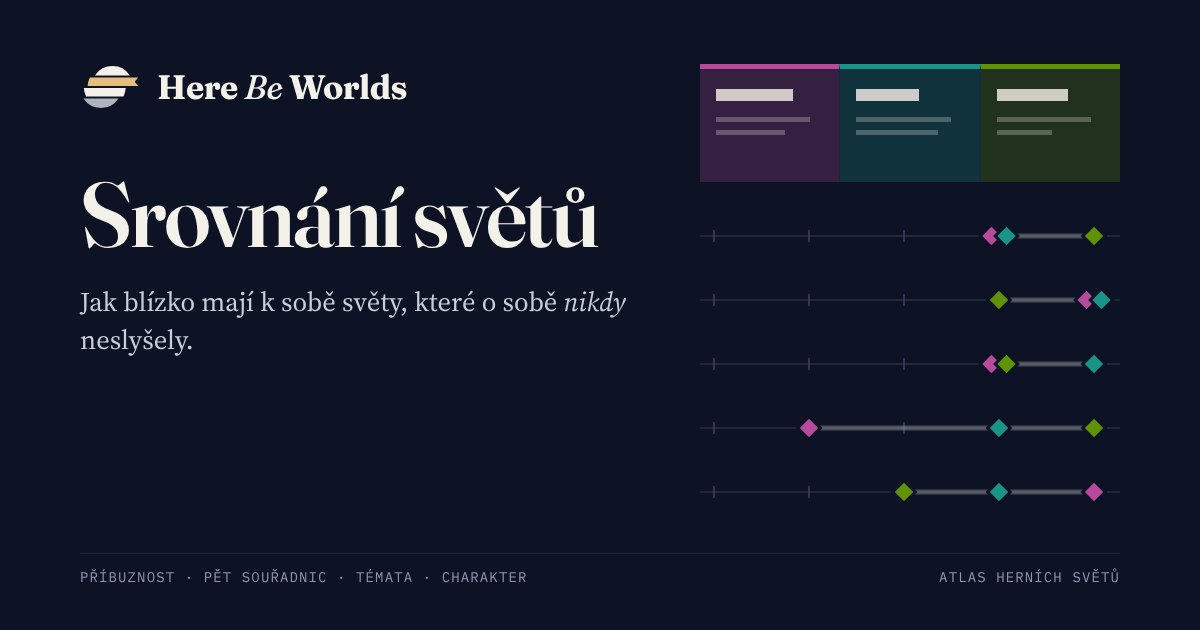
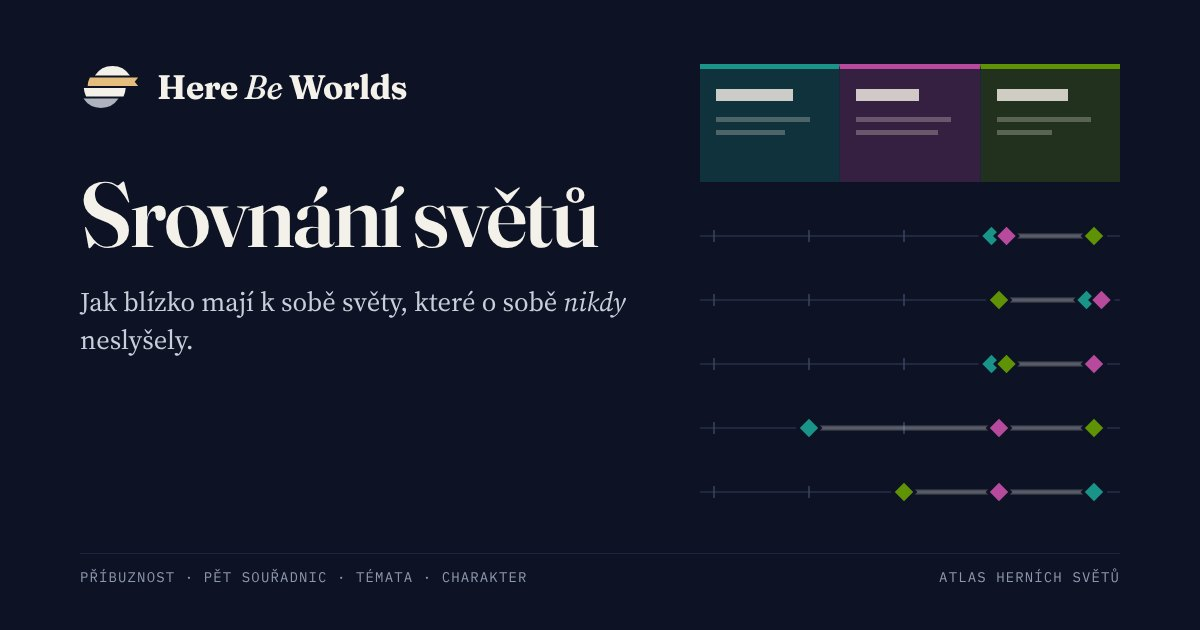
Příbuznost jen z indexu (zrušeno zvedání ručních dvojic), bez poznámky Z atlasu ve srovnání, purpurová mezi zelenými
Claude-Session: https://claude.ai/code/session_01B7obWPJG5ydjAhQo1XjBpq

diff --git a/src/lib/i18n.ts b/src/lib/i18n.ts
@@ -289,7 +289,7 @@ export const ui: Record<Locale, UiTree> = {
       strengthFaint: 'slabá shoda',
       strengthNone: 'bez shody',
       curatedLabel: 'Z Atlasu:',
-      methodLines: 'Příbuznost skládáme ze čtyř pilířů: archetyp a profil archetypu, pět souřadnic profilu světa, charakter světa (nálada, původ moci, společnost, historická hloubka, prostorový dosah, perspektiva hráče) a společná témata.|Všechny dvojice světů v atlasu seřadíme od nejbližší po nejvzdálenější a rozdělíme do pěti stupňů: Sourozenci, Blízcí příbuzní, Spříznění, Vzdálení příbuzní a Cizí.|Dvojice, které jsme v Atlasu spojili ručně, jsou vždy aspoň Blízcí příbuzní.',
+      methodLines: 'Příbuznost skládáme ze čtyř pilířů: archetyp a profil archetypu, pět souřadnic profilu světa, charakter světa (nálada, původ moci, společnost, historická hloubka, prostorový dosah, perspektiva hráče) a společná témata.|Všechny dvojice světů v atlasu seřadíme od nejbližší po nejvzdálenější a rozdělíme do pěti stupňů: Sourozenci, Blízcí příbuzní, Spříznění, Vzdálení příbuzní a Cizí.',
       noMatch: 'Tomuto hledání neodpovídá žádný svět.',
       versus: '×',
       start: 'Kde začít',
@@ -302,7 +302,6 @@ export const ui: Record<Locale, UiTree> = {
       shuffle: 'Jiné náměty',
       trailsTitle: 'Společná putování',
       trailsAll: 'Všemi',
-      trailsSome: 'Jen',
       essayMin: 'Esej · {m} min',
       pairsHint: 'Vyber dvojici',
     },
@@ -768,7 +767,7 @@ Berte prosím tento atlas jako skromnou poctu všem scenáristům, designérům 
       strengthFaint: 'faint match',
       strengthNone: 'no match',
       curatedLabel: 'From the Atlas:',
-      methodLines: 'Kinship rests on four pillars: archetype and archetype profile, the five coordinates of the world profile, world character (mood, source of power, society, historical depth, spatial scope, player perspective), and shared themes.|We rank every pair of worlds in the atlas from closest to farthest and split them into five grades: Siblings, Close kin, Kindred, Distant kin, and Strangers.|Pairs we linked by hand in the Atlas are always at least Close kin.',
+      methodLines: 'Kinship rests on four pillars: archetype and archetype profile, the five coordinates of the world profile, world character (mood, source of power, society, historical depth, spatial scope, player perspective), and shared themes.|We rank every pair of worlds in the atlas from closest to farthest and split them into five grades: Siblings, Close kin, Kindred, Distant kin, and Strangers.',
       noMatch: 'No world matches this search.',
       versus: '×',
       start: 'Where to start',
@@ -781,7 +780,6 @@ Berte prosím tento atlas jako skromnou poctu všem scenáristům, designérům 
       shuffle: 'Other ideas',
       trailsTitle: 'Shared journeys',
       trailsAll: 'All',
-      trailsSome: 'Only',
       essayMin: 'Essay · {m} min',
       pairsHint: 'Pick a pair',
     },

diff --git a/src/lib/compare.ts b/src/lib/compare.ts
@@ -4,14 +4,14 @@ import overridesData from '../../data/meta/kinship-overrides.json';
 
 export const MAX_COMPARE = 3;
 
-/* Barvy srovnání (2026-11-21): purpurová, mořská zeleň a trávová zeleň. Leží v mezerách mezi
+/* Barvy srovnání (2026-11-21): mořská zeleň, purpurová a trávová zeleň (zelené nestojí vedle sebe). Leží v mezerách mezi
  * barvami archetypů i akcentem (ΔE2000 ≥ 15 vůči světlým i tmavým barvám archetypů, mezi sebou ≥ 27)
  * a mají kontrast ≥ 3,3 na papíře i na noci, takže stačí jedna sada pro oba motivy.
  * Podbarvení (wash) míchá compare.css z barvy a pozadí (color-mix), tady je jen pro úplnost. */
-export const SLOT_COLORS = ['#B74A9D', '#1A9389', '#5F9205'] as const;
+export const SLOT_COLORS = ['#1A9389', '#B74A9D', '#5F9205'] as const;
 export const SLOT_WASH = [
-  'rgba(183, 74, 157, 0.16)',
   'rgba(26, 147, 137, 0.16)',
+  'rgba(183, 74, 157, 0.16)',
   'rgba(95, 146, 5, 0.16)',
 ] as const;
 
@@ -215,12 +215,10 @@ export function affinityPercent(a: World, b: World): number {
  * Všechny dvojice publikovaných světů seřadíme podle indexu a rozdělíme podle podílu:
  * nejbližší 3 % = Sourozenci, dalších 9 % = Blízcí příbuzní, dalších 23 % = Spříznění,
  * dalších 30 % = Vzdálení příbuzní, zbytek = Cizí. Při úpravě výpočtu se stupně jen přeskupí.
- * Kurátorské vazby z atlasu (relatedWorlds) mají vždy aspoň stupeň Blízcí příbuzní.
  * Ruční výjimky: data/meta/kinship-overrides.json.
  */
 export type KinshipLevel = 1 | 2 | 3 | 4 | 5;
 export const KINSHIP_SHARES = [0.03, 0.12, 0.35, 0.65] as const;
-export const CURATED_FLOOR: KinshipLevel = 4;
 
 type Override = { a: string; b: string; level: number };
 const OVERRIDES = new Map<string, KinshipLevel>(
@@ -268,7 +266,7 @@ export function kinshipLevel(a: World, b: World, all: World[]): KinshipLevel {
   const manual = OVERRIDES.get(pairId(a.id, b.id));
   if (manual) return manual;
   const computed = levelFromPercent(affinityPercent(a, b), kinshipCutoffs(all));
-  return isCuratedPair(a, b) ? (Math.max(computed, CURATED_FLOOR) as KinshipLevel) : computed;
+  return computed;
 }
 
 /** Nejpříbuznější světy (jediný index na webu: srovnání, karta i mapa), řazeno podle stupně a indexu. */

diff --git a/src/components/compare/ComparePage.tsx b/src/components/compare/ComparePage.tsx
@@ -5,7 +5,6 @@ import { useLocale } from '../../lib/locale-store';
 import { withBase } from '../../lib/base-url';
 import {
   MAX_COMPARE,
-  curatedNote,
   curatedPairs,
   discoveryPairs,
   kinshipCutoffs,
@@ -300,8 +299,6 @@ export default function ComparePage({ worlds, chapters, themeLabels, axes, base,
       ? pairLevel(selected[0], selected[1])
       : levelFromPercent(kinshipPercent(selected), cutoffs)
     : null;
-  const notePair = activePair ? [selected[activePair.left], selected[activePair.right]] : null;
-  const verdictNote = notePair ? curatedNote(notePair[0], notePair[1]) : undefined;
 
   const factRows: FactRow[] = ready
     ? [
@@ -535,11 +532,6 @@ export default function ComparePage({ worlds, chapters, themeLabels, axes, base,
               </ul>
               </>
             )}
-            {verdictNote ? (
-              <p className="cmp-note">
-                <span className="cmp-note__label">{uiT('compare.curatedLabel', locale)}</span> {t(verdictNote, locale)}
-              </p>
-            ) : null}
             {activePair ? <Pillars score={activePair.breakdown} locale={locale} /> : null}
           </Section>
 
@@ -593,7 +585,6 @@ export default function ComparePage({ worlds, chapters, themeLabels, axes, base,
                     <p className="cmp-trails__desc">{uiT(trail.descKey, locale)}</p>
                     <p className="cmp-trails__meta">
                       <span className="cmp-trails__who">
-                        {inside.length < filled.length ? `${uiT('compare.trailsSome', locale)} ` : ''}
                         {inside.map((item) => (
                           <span key={item.world.id} className="cmp-trails__world">
                             <Mark hue={slotHue(item.index)} />

diff --git a/src/lib/compare.test.ts b/src/lib/compare.test.ts
@@ -172,8 +172,8 @@ describe('compare kinship', () => {
   });
 
   it('keeps slot colors in gold / teal / amethyst order', () => {
-    expect(slotHue(0)).toBe('#B74A9D');
-    expect(slotHue(1)).toBe('#1A9389');
+    expect(slotHue(0)).toBe('#1A9389');
+    expect(slotHue(1)).toBe('#B74A9D');
     expect(slotHue(2)).toBe('#5F9205');
   });
 });
@@ -255,11 +255,12 @@ describe('kinship levels', () => {
     expect(levelFromPercent(10, cut)).toBe(1);
   });
 
-  it('lifts curated pairs to at least close kin', () => {
+  it('does not lift curated pairs: the grade comes from the index alone', () => {
     const a = { ...minimal('a', [], 1, 1), relatedWorlds: [{ id: 'b', title: { en: 'b' }, note: { en: 'n' } }] } as World;
+    const plain = minimal('a', [], 1, 1);
     const b = minimal('b', ['x'], 5, 5);
     const fillers = ['c', 'd', 'e', 'f', 'g'].map((id) => minimal(id, ['x'], 5, 5));
-    expect(kinshipLevel(a, b, [a, b, ...fillers])).toBeGreaterThanOrEqual(4);
+    expect(kinshipLevel(a, b, [a, b, ...fillers])).toBe(kinshipLevel(plain, b, [plain, b, ...fillers]));
   });
 
   it('describes pillar strength in words', () => {

diff --git a/CLAUDE.md b/CLAUDE.md
@@ -69,7 +69,7 @@ Kroniky a eseje **nejsou** v `data/`.
 |---|---|---|
 | `/` | `src/pages/index.astro` | `HomeIntro` — noční pás s oblohou 43 hvězd (7 souhvězdí = archetypy; nahodilý tvar bez předepsané figury (rozhodnutí majitele 2026-11-21: žádné konkrétní tvary): hvězdy leží v ploše souhvězdí na pevných pseudonáhodných místech (`scatter`, semínko podle archetypu, okraj 40 jednotek kvůli jménům) a spojuje je jediná klikatá linka od hvězdy k sousední (`windingPath`: nejbližší soused od hvězdy nejvíc vlevo + 2-opt bez křížení), takže každá hvězda má nejvýš dva sousedy a žádná nepůsobí jako střed (dřívější strom s „rodičovskými“ hvězdami majitel zamítl); k-tý svět archetypu podle čísla dostane k-té místo (místa se vybírají postupně co nejdál od předchozích), takže se při postupném odkrývání hvězdy nehýbou, linka se jen přeskládá; spojnice jsou SVG a platí i na telefonu; dva naposledy zmapované světy (`latestAdded`) pulzují a na počítači mají trvale jméno se štítkem „Nově zmapováno“; popsané světy se po stálých skupinkách (dvě až tři, jména se nepřekrývají, `rotationSets`) střídají každých 5 s s pomalým prolnutím, souhvězdí po sobě jako vlna; první skupinka jsou nejznámější světy `ICONIC`; rotace běží pořád, stojí jen při kurzoru na názvu souhvězdí, na kartě v pozadí, při `prefers-reduced-motion` a na úzkém/dotykovém displeji; jména jsou vždy pod hvězdou; najetí na název souhvězdí rozsvítí jména všech jeho světů a ztlumí ostatní, klik skočí na `#rejstrik-<id>`; na úzkém/dotykovém displeji obloha bez jmen a pod ní řádek archetypů do rejstříku; dole jemné měřítko, vlevo „Trasy oblohou“ (tři dnešní putování: najetí nakreslí přes oblohu přerušovanou zlatou trasu mezi hvězdami světů putování, rozsvítí jejich jména a ostatní ztlumí; trasa prvního putování dne je slabě vidět pořád; na telefonu a dotyku řádek ani trasa nejsou, spojnice souhvězdí ano) a vpravo „Nově zmapováno“). Hned pod nocí **Putování dne** v jediném tónovaném pásu (`hp-journeys`): hlavní putování s otázkou eseje (`tagline`, jen česky, v EN popis z i18n), úvodním citátem eseje a jeho zdrojem, trasou světů jako zastávek na lince (tečka v barvě archetypu; na telefonu svisle), tlačítkem „Vydat se na putování“ a dobou čtení eseje (počet světů ne, ten je vidět z trasy); vpravo pod štítkem „Další putování“ další dvě putování dne s otázkou a světy; podklady skládá `index.astro` z `trail-pages.ts` (jen schválené eseje). V úvodu tlačítka „Vydat se na putování“ (zlatý štítek) a „Otevřít atlas“ (na telefonu vedle sebe), „Náhodný svět“ jako odkaz pod nimi. Hlavička na titulní straně splývá s nocí, po posunu ji oddělí linka (`is-scrolled` v `SiteHeader`). `ReaderDesk` (jen jeden řádek s rozečtenou kronikou), **Svět dne** (archetyp · profil archetypu, pruh os) + **Hádanka dne** (`DailyMystery`), Zmapované světy (dřív Rejstřík; záložka „Archetyp · počet“ je odkaz na archetyp, `id=rejstrik-<id>`), kompas „Který svět je tvůj?“ (`WorldCompass alwaysOpen`), Tři cesty a na konci esej Anatomie herního lore v druhém tónovaném pásu. Putování dne = 3 z 22, každý den jiná trojice (`dailyTrails`); odkaz „Všech 22 putování →“ na `/putovani/`. Svět dne i hádanka se skládají samy z dat (`calendar.ts`): promíchané pořadí po cyklech (`featuredWorldIndex`), hádanka je o půl cyklu posunutá (`mysteryWorldIndex`), takže se se Světem dne nepotká; jedna špatná odpověď je ze stejného archetypu. Po odpovědi: správná zelený rámeček a ✓, zvolená špatná červený rámeček, přeškrtnutí a ✗ (`--color-right` / `--color-wrong`), všechny tři možnosti jsou odkazy. Staré odkazy `/?theme=` a `/?trail=` přesměruje do `/atlas/`. |
 | `/atlas/` | `src/pages/atlas/index.astro` | `AtlasExplorer`: pod nadpisem rovnou katalog — záložky archetypů s počty (podle ostatních filtrů), pole jen s linkou dole (hledání, Téma, Nálada), řádek Další filtry · Hledat podle vlastních souřadnic (`WorldCompass open`) · Putování + (rozbalí seznam všech putování s popisem a počtem; `?putovani=1` i staré `?stezky=1` ho otevře), řádek s počtem výsledků a Zrušit filtry; skupiny se záložkou „Fantasy · 12“ jako v rejstříku; `CatalogWorldCard` bez rámu (hranatý podbarvený štítek „podžánr · vesmír“ v barvě archetypu, název, jádro, `AxisBars compact`, témata jako text). Nadpis bez štítku s počtem (počet je v záložce Všechny a v řádku výsledků). Hledání (`search.ts`): všechna slova musí sedět, bez diakritiky, překlep jen u slov od 6 písmen. Čte `?theme=` a `?trail=` |
-| `/compare/` | `src/pages/compare/index.astro` | `ComparePage` + `AxisOverlay` (styl noční atlas, 2026-11-21): hlavička jako atlas (drobečky, velký nadpis, úvod); stránka jako kniha spisů, vlevo sloupec popisků v mono, vpravo sloupce světů se svislými linkami (`cmp-grid`). Nahoře spisy světů podbarvené barvou srovnání (linka, archetyp · podžánr, název jako odkaz, roky, jádro, dole Vyměnit · Odebrat; výběr s hledáním bez diakritiky i podle archetypu, Enter vybere první; v seznamu krátké názvy archetypů `short` z `chapters.json`: Historické světy, Metafyzické světy); ve sloupci popisků vedle nich + Přidat třetí svět a Sdílet; bez dvou světů jdou spisy od levého okraje (`is-loose`). Oddíly s linkou nahoře: **Příbuznost** (velký stupeň slovy + pětidílný pruh; u tří světů „Vyber dvojici“ a dvojice jako volby s rámečkem a šipkou, vybraná podbarvená akcentem ukáže pilíře; odkaz „Co je příbuznost?“), Z atlasu, čtyři pilíře slovy s tenkou linkou · **Pět souřadnic** (řádek na souřadnici: póly, stupnice, kosočtverce, pás rozpětí; pól, ke kterému se světy kloní, tučně; odkaz „Co jsou souřadnice?“) · **Témata** jako mřížka (téma × svět, tečka v barvě srovnání; nejdřív sdílená) · **Společná putování** (putování, kterými prochází víc vybraných světů; u tří i ta se dvěma, „Jen …“; jen když nějaké jsou) · **Charakter** (Vše / Jen rozdíly / Jen shody, shodné hodnoty mají ≡ a podklad v akcentu) · **Anatomie vyprávění** · odkazy na spisy. Při posunu lepivý pruh se jmény ve sloupcích, podbarvený. Bez dvou světů oddíl **Kde začít** se třemi náměty v každém sloupci, losovanými při každé návštěvě ze zásobníku (tlačítko ↻ Jiné náměty): Oblíbené páry = ručně spojené dvojice atlasu (`curatedPairs`, 81; u jednoho vybraného světa místo nich jeho nejbližší příbuzní), Nečekaní příbuzní (nejbližší dvojice z různých archetypů) a Protinožci (nejvzdálenější), obojí z `discoveryPairs` (zásobník 9). **Barvy srovnání** (`SLOT_COLORS`, 2026-11-21): purpurová `#B74A9D`, mořská zeleň `#1A9389`, trávová zeleň `#5F9205` – jedna sada pro oba motivy, ΔE2000 ≥ 15 od všech barev archetypů i akcentu; podbarvení míchá `compare.css` (`color-mix`, 13 % světlý / 22 % tmavý motiv). Karta pro sdílení `public/og/compare.jpg` (`npm run og -- compare`); srovnání konkrétních světů vlastní kartu mít nemůže (statický web, stav je v `?w=`). Telefon: popisky nad řádky, dlouhé texty pod sebou, výběr světa jako list zespodu. |
+| `/compare/` | `src/pages/compare/index.astro` | `ComparePage` + `AxisOverlay` (styl noční atlas, 2026-11-21): hlavička jako atlas (drobečky, velký nadpis, úvod); stránka jako kniha spisů, vlevo sloupec popisků v mono, vpravo sloupce světů se svislými linkami (`cmp-grid`). Nahoře spisy světů podbarvené barvou srovnání (linka, archetyp · podžánr, název jako odkaz, roky, jádro, dole Vyměnit · Odebrat; výběr s hledáním bez diakritiky i podle archetypu, Enter vybere první; v seznamu krátké názvy archetypů `short` z `chapters.json`: Historické světy, Metafyzické světy); ve sloupci popisků vedle nich + Přidat třetí svět a Sdílet; bez dvou světů jdou spisy od levého okraje (`is-loose`). Oddíly s linkou nahoře: **Příbuznost** (velký stupeň slovy + pětidílný pruh; u tří světů „Vyber dvojici“ a dvojice jako volby s rámečkem a šipkou, vybraná podbarvená akcentem ukáže pilíře; odkaz „Co je příbuznost?“), čtyři pilíře slovy s tenkou linkou (poznámka „Z atlasu“ se tu neukazuje) · **Pět souřadnic** (řádek na souřadnici: póly, stupnice, kosočtverce, pás rozpětí; pól, ke kterému se světy kloní, tučně; odkaz „Co jsou souřadnice?“) · **Témata** jako mřížka (téma × svět, tečka v barvě srovnání; nejdřív sdílená) · **Společná putování** (putování, kterými prochází víc vybraných světů; u tří i ta se dvěma; jen když nějaké jsou) · **Charakter** (Vše / Jen rozdíly / Jen shody, shodné hodnoty mají ≡ a podklad v akcentu) · **Anatomie vyprávění** · odkazy na spisy. Při posunu lepivý pruh se jmény ve sloupcích, podbarvený. Bez dvou světů oddíl **Kde začít** se třemi náměty v každém sloupci, losovanými při každé návštěvě ze zásobníku (tlačítko ↻ Jiné náměty): Oblíbené páry = ručně spojené dvojice atlasu (`curatedPairs`, 81; u jednoho vybraného světa místo nich jeho nejbližší příbuzní), Nečekaní příbuzní (nejbližší dvojice z různých archetypů) a Protinožci (nejvzdálenější), obojí z `discoveryPairs` (zásobník 9). **Barvy srovnání** (`SLOT_COLORS`, 2026-11-21): mořská zeleň `#1A9389`, purpurová `#B74A9D`, trávová zeleň `#5F9205` (zelené nestojí vedle sebe) – jedna sada pro oba motivy, ΔE2000 ≥ 15 od všech barev archetypů i akcentu; podbarvení míchá `compare.css` (`color-mix`, 13 % světlý / 22 % tmavý motiv). Karta pro sdílení `public/og/compare.jpg` (`npm run og -- compare`); srovnání konkrétních světů vlastní kartu mít nemůže (statický web, stav je v `?w=`). Telefon: popisky nad řádky, dlouhé texty pod sebou, výběr světa jako list zespodu. |
 | `/map/` | `src/pages/map/index.astro` | `AxisGridMap` — Mapa souřadnic (mřížka 5 × 5, bez výpočtu příbuznosti) |
 | `/chapters/[id]/` | `src/pages/chapters/[id].astro` | `ChapterPage` — URL zůstává `chapters`, UI = Archetyp |
 | `/worlds/[slug]/` | `src/pages/worlds/[slug].astro` | `WorldPageShell` |
@@ -102,7 +102,7 @@ Layout: `src/layouts/BaseLayout.astro` — header/footer (znak + nápis z `Brand
 
 | Soubor | Účel |
 |---|---|
-| `src/lib/compare.ts` | **Jediný index příbuznosti na webu.** `affinityBreakdown` (4 pilíře, shody podle **`en`** řetězců) slouží jen k řazení. Na webu se ukazuje **slovní stupeň** `kinshipLevel` (5 Sourozenci · 4 Blízcí příbuzní · 3 Spříznění · 2 Vzdálení příbuzní · 1 Cizí) podle podílu všech dvojic (3 / 9 / 23 / 30 / zbytek %); kurátorské `relatedWorlds` mají vždy aspoň 4; ruční výjimky `data/meta/kinship-overrides.json`. `kinshipRanking` pro kartu a mapu. Max 3 světy. URL `?w=`. |
+| `src/lib/compare.ts` | **Jediný index příbuznosti na webu.** `affinityBreakdown` (4 pilíře, shody podle **`en`** řetězců) slouží jen k řazení. Na webu se ukazuje **slovní stupeň** `kinshipLevel` (5 Sourozenci · 4 Blízcí příbuzní · 3 Spříznění · 2 Vzdálení příbuzní · 1 Cizí) podle podílu všech dvojic (3 / 9 / 23 / 30 / zbytek %); stupeň určuje jen index (pravidlo „ručně spojené dvojice aspoň 4“ majitel 2026-11-22 zrušil, `relatedWorlds` jsou jen nabídka, kam se podívat dál; přepočet indexu je odložený); ruční výjimky `data/meta/kinship-overrides.json`. `kinshipRanking` pro kartu a mapu. Max 3 světy. URL `?w=`. |
 | `src/lib/axes.ts` | `AXIS_KEYS` — pořadí pěti os. |
 | `src/lib/i18n.ts` | UI copy `cs`/`en`. `uiT('world.viewCard')` atd. |
 | `src/lib/worlds.ts` | Parse katalogu, kapitoly, related, `buildSearchText`. |
